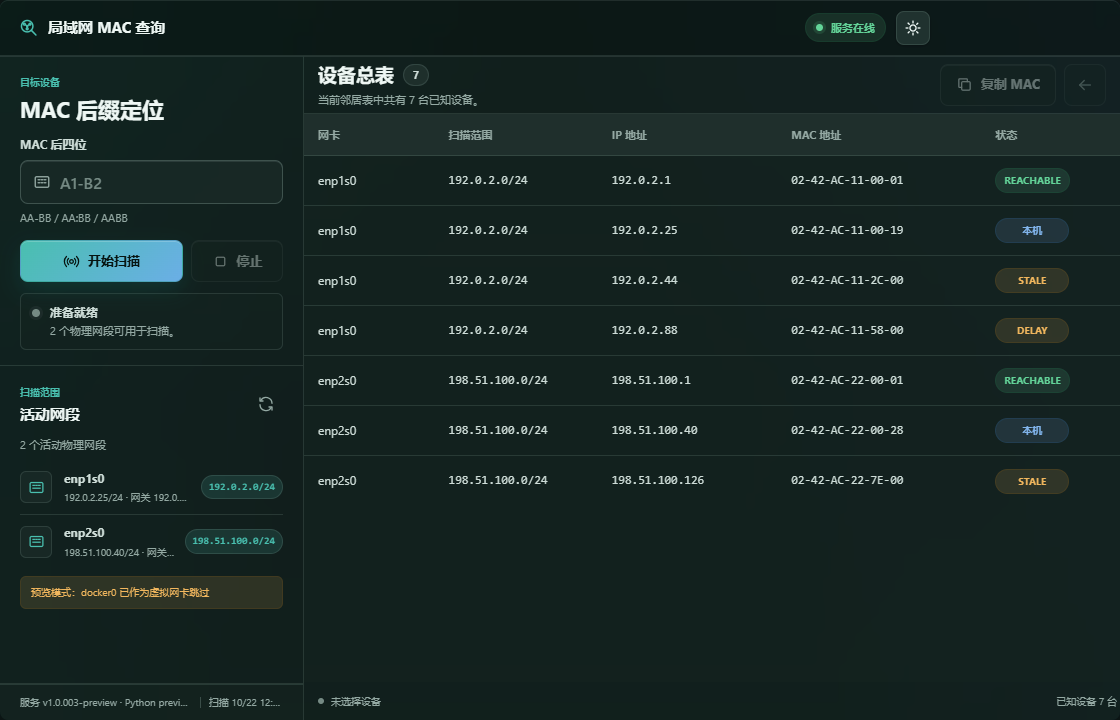
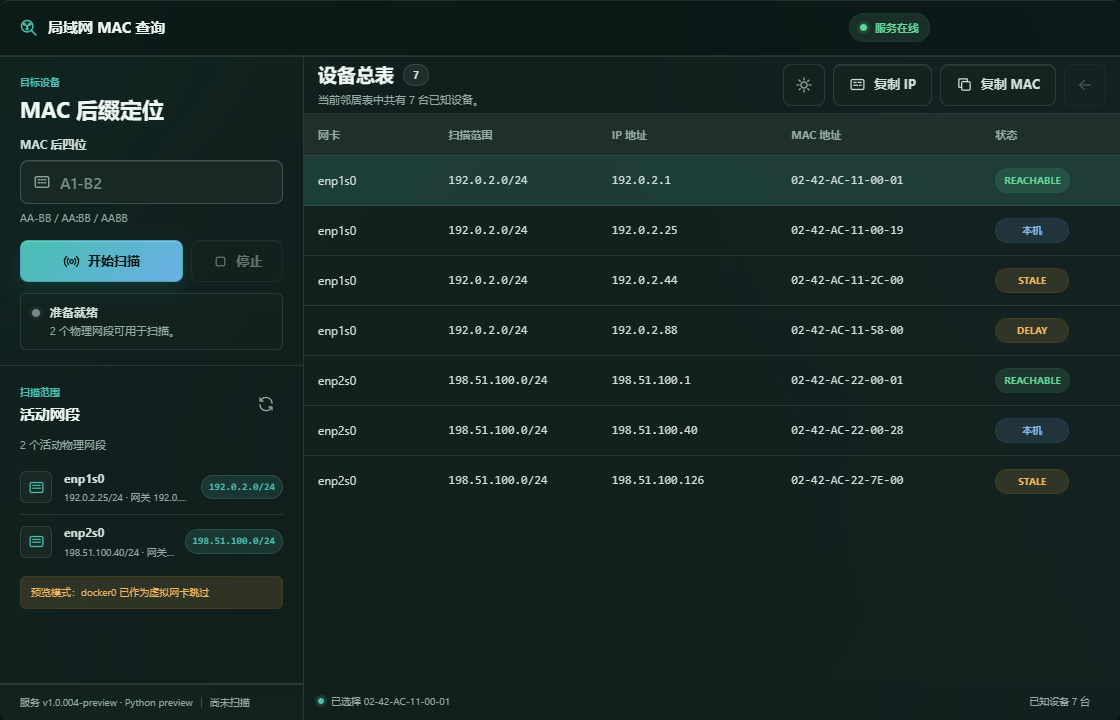
release: v1.0.004

diff --git a/frontend/app.js b/frontend/app.js
@@ -32,6 +32,7 @@ var state = {
   tableSignature: "",
   tableMode: "devices",
   selectedMac: "",
+  selectedIp: "",
   selectedKey: "",
   running: false,
   stopping: false,
@@ -419,6 +420,7 @@ function updateControls() {
   var refreshButton = byId("refreshButton");
   var emptyRefreshButton = byId("emptyRefreshButton");
   var copyButton = byId("copyButton");
+  var copyIpButton = byId("copyIpButton");
   var clearButton = byId("clearButton");
   var inputClearButton = byId("inputClearButton");
   var input = byId("macSuffix");
@@ -430,6 +432,7 @@ function updateControls() {
   input.disabled = state.running;
   inputClearButton.hidden = state.running || !input.value.trim();
   copyButton.disabled = !state.selectedMac;
+  copyIpButton.disabled = !state.selectedIp;
   clearButton.disabled = state.tableMode !== "results" || state.results.length === 0;
   setText(
     "scanButtonText",
@@ -471,9 +474,11 @@ function setProgress(percent, indeterminate, label) {
 
 function resetSelection() {
   state.selectedMac = "";
+  state.selectedIp = "";
   state.selectedKey = "";
   setText("selectionText", "未选择设备");
   byId("copyButton").disabled = true;
+  byId("copyIpButton").disabled = true;
   var summary = document.querySelector(".selected-summary");
   if (summary) {
     summary.classList.remove("has-selection");
@@ -487,6 +492,7 @@ function selectRow(row) {
     item.setAttribute("aria-selected", item === row ? "true" : "false");
   });
   state.selectedMac = row.getAttribute("data-mac") || "";
+  state.selectedIp = row.getAttribute("data-ip") || "";
   state.selectedKey = row.getAttribute("data-key") || "";
   setText("selectionText", state.selectedMac ? "已选择 " + state.selectedMac : "未选择设备");
   var summary = document.querySelector(".selected-summary");
@@ -494,6 +500,7 @@ function selectRow(row) {
     summary.classList.toggle("has-selection", !!state.selectedMac);
   }
   byId("copyButton").disabled = !state.selectedMac;
+  byId("copyIpButton").disabled = !state.selectedIp;
 }
 
 function stateClass(value) {
@@ -539,6 +546,7 @@ function renderTable(items, mode, force) {
     row.setAttribute("role", "row");
     row.setAttribute("aria-selected", "false");
     row.setAttribute("data-mac", result.mac);
+    row.setAttribute("data-ip", result.ip);
     row.setAttribute(
       "data-key",
       result.interface + "|" + result.ip + "|" + result.mac
@@ -961,6 +969,19 @@ async function copySelectedMac() {
   }
 }
 
+async function copySelectedIp() {
+  if (!state.selectedIp) {
+    toast("请先选择一条匹配结果。", true);
+    return;
+  }
+  try {
+    await writeClipboard(state.selectedIp);
+    toast("已复制 " + state.selectedIp, false);
+  } catch (error) {
+    toast("复制失败，请重试。", true);
+  }
+}
+
 async function clearResults() {
   if (state.running) {
     return;
@@ -989,11 +1010,14 @@ async function clearResults() {
 
 function applyTheme(theme) {
   document.documentElement.setAttribute("data-theme", theme);
-  try {
-    localStorage.setItem("lan-mac-finder-theme", theme);
-  } catch (error) {
-    return;
-  }
+  var toggle = byId("themeToggle");
+  var isDark = theme === "dark";
+  toggle.setAttribute("aria-pressed", isDark ? "true" : "false");
+  toggle.setAttribute("aria-label", isDark ? "切换为浅色主题" : "切换为深色主题");
+  toggle.setAttribute(
+    "data-tooltip",
+    isDark ? "切换为浅色主题" : "切换为深色主题"
+  );
 }
 
 function toggleTheme() {
@@ -1097,6 +1121,7 @@ function bindEvents() {
   byId("refreshButton").addEventListener("click", refreshNetworks);
   byId("emptyRefreshButton").addEventListener("click", refreshNetworks);
   byId("copyButton").addEventListener("click", copySelectedMac);
+  byId("copyIpButton").addEventListener("click", copySelectedIp);
   byId("clearButton").addEventListener("click", clearResults);
   byId("inputClearButton").addEventListener("click", function () {
     clearResults().then(function () {
@@ -1117,6 +1142,7 @@ function bindEvents() {
 }
 
 async function boot() {
+  applyTheme(document.documentElement.getAttribute("data-theme") || "light");
   bindEvents();
   bindTooltips();
   updateControls();

diff --git a/frontend/index.html b/frontend/index.html
@@ -12,14 +12,14 @@
     (function () {
       var theme = "light";
       try {
-        theme = localStorage.getItem("lan-mac-finder-theme") || "";
-        if (theme !== "light" && theme !== "dark") {
-          theme = window.matchMedia && window.matchMedia("(prefers-color-scheme: dark)").matches
-            ? "dark"
-            : "light";
-        }
+        theme = window.parent.localStorage.getItem("themeMode") || "";
       } catch (error) {
-        theme = "light";
+        theme = "";
+      }
+      if (theme !== "light" && theme !== "dark") {
+        theme = window.matchMedia && window.matchMedia("(prefers-color-scheme: dark)").matches
+          ? "dark"
+          : "light";
       }
       document.documentElement.setAttribute("data-theme", theme);
     }());
@@ -47,27 +47,6 @@
         <span class="status-dot" aria-hidden="true"></span>
         <span id="backendBadgeText">正在连接服务</span>
       </div>
-      <button
-        id="themeToggle"
-        class="icon-button titlebar-icon-button"
-        type="button"
-        aria-label="切换明暗主题"
-        data-tooltip="切换明暗主题">
-        <svg class="theme-icon theme-icon-light" viewBox="0 0 24 24" aria-hidden="true" focusable="false">
-          <path d="M20.5 14.5A8.5 8.5 0 0 1 9.5 3.5a8.5 8.5 0 1 0 11 11Z"></path>
-        </svg>
-        <svg class="theme-icon theme-icon-dark" viewBox="0 0 24 24" aria-hidden="true" focusable="false">
-          <path d="M12 3v2"></path>
-          <path d="M12 19v2"></path>
-          <path d="M3 12h2"></path>
-          <path d="M19 12h2"></path>
-          <path d="m5.6 5.6 1.4 1.4"></path>
-          <path d="m17 17 1.4 1.4"></path>
-          <path d="m18.4 5.6-1.4 1.4"></path>
-          <path d="M7 17 5.6 18.4"></path>
-          <circle cx="12" cy="12" r="4"></circle>
-        </svg>
-      </button>
     </div>
   </header>
 
@@ -211,6 +190,38 @@
           <p id="resultSummary">正在读取当前邻居表中的已知设备。</p>
         </div>
         <div class="workspace-actions">
+          <button
+            id="themeToggle"
+            class="icon-button workspace-icon-button"
+            type="button"
+            aria-label="切换明暗主题"
+            aria-pressed="false"
+            data-tooltip="切换明暗主题">
+            <svg class="theme-icon theme-icon-light" viewBox="0 0 24 24" aria-hidden="true" focusable="false">
+              <path d="M20.5 14.5A8.5 8.5 0 0 1 9.5 3.5a8.5 8.5 0 1 0 11 11Z"></path>
+            </svg>
+            <svg class="theme-icon theme-icon-dark" viewBox="0 0 24 24" aria-hidden="true" focusable="false">
+              <path d="M12 3v2"></path>
+              <path d="M12 19v2"></path>
+              <path d="M3 12h2"></path>
+              <path d="M19 12h2"></path>
+              <path d="m5.6 5.6 1.4 1.4"></path>
+              <path d="m17 17 1.4 1.4"></path>
+              <path d="m18.4 5.6-1.4 1.4"></path>
+              <path d="M7 17 5.6 18.4"></path>
+              <circle cx="12" cy="12" r="4"></circle>
+            </svg>
+          </button>
+          <button id="copyIpButton" class="secondary-button" type="button" disabled>
+            <svg viewBox="0 0 24 24" aria-hidden="true" focusable="false">
+              <rect x="3" y="5" width="18" height="14" rx="2"></rect>
+              <path d="M7 9h3"></path>
+              <path d="M13 9h4"></path>
+              <path d="M7 13h5"></path>
+              <path d="M15 13h2"></path>
+            </svg>
+            <span>复制 IP</span>
+          </button>
           <button id="copyButton" class="secondary-button" type="button" disabled>
             <svg viewBox="0 0 24 24" aria-hidden="true" focusable="false">
               <rect x="8" y="8" width="12" height="12" rx="2"></rect>

diff --git a/frontend/styles.css b/frontend/styles.css
@@ -1170,7 +1170,7 @@ html[data-theme="dark"] .theme-icon-dark {
   justify-content: space-between;
   gap: 18px;
   min-height: 38px;
-  padding: 0 3px 0 14px;
+  padding: 0 30px 0 14px;
   color: var(--muted);
   font-size: 10px;
 }
@@ -1352,6 +1352,14 @@ html[data-theme="dark"] .theme-icon-dark {
 
   .workspace-header {
     padding: 0 12px;
+  }
+
+  .workspace-actions {
+    gap: 6px;
+  }
+
+  .workspace-actions .secondary-button {
+    padding: 0 10px;
   }
 
   .results-surface {

diff --git a/tools/preview_server.py b/tools/preview_server.py
@@ -254,7 +254,7 @@ class PreviewHandler(SimpleHTTPRequestHandler):
                     "ok": True,
                     "status": "ok",
                     "app": APP_ID,
-                    "version": "1.0.003-preview",
+                    "version": "1.0.004-preview",
                     "python": "preview",
                     "max_hosts": 1022,
                 },
@@ -266,7 +266,7 @@ class PreviewHandler(SimpleHTTPRequestHandler):
                 {
                     "ok": True,
                     "app": APP_ID,
-                    "version": "1.0.003-preview",
+                    "version": "1.0.004-preview",
                     "max_hosts": 1022,
                     "networks": NETWORKS,
                     "warnings": ["预览模式：docker0 已作为虚拟网卡跳过"],
@@ -279,7 +279,7 @@ class PreviewHandler(SimpleHTTPRequestHandler):
                 {
                     "ok": True,
                     "app": APP_ID,
-                    "version": "1.0.003-preview",
+                    "version": "1.0.004-preview",
                     "devices": DEVICES,
                     "warnings": [],
                 },
@@ -291,7 +291,7 @@ class PreviewHandler(SimpleHTTPRequestHandler):
                 {
                     "ok": True,
                     "app": APP_ID,
-                    "version": "1.0.003-preview",
+                    "version": "1.0.004-preview",
                     **STATE.status(),
                 },
             )
@@ -301,7 +301,7 @@ class PreviewHandler(SimpleHTTPRequestHandler):
             return
         if urlsplit(self.path).path in {"", "/"}:
             source = (FRONTEND / "index.html").read_text(encoding="utf-8")
-            raw = source.replace("__APP_VERSION__", "1.0.003-preview").encode("utf-8")
+            raw = source.replace("__APP_VERSION__", "1.0.004-preview").encode("utf-8")
             self.send_response(200)
             self.send_header("Content-Type", "text/html; charset=utf-8")
             self.send_header("Content-Length", str(len(raw)))

diff --git a/backend/tests/test_package_contract.py b/backend/tests/test_package_contract.py
@@ -83,6 +83,21 @@ class PackageContractTests(unittest.TestCase):
         root = ET.fromstring(icon.read_bytes())
         self.assertIn("viewBox", root.attrib)
         self.assertIsNone(re.search(r"<script\b", icon.read_text(encoding="utf-8"), re.I))
+        full_bleed = next(
+            element for element in root if element.tag.rsplit("}", 1)[-1] == "rect"
+        )
+        self.assertIn(full_bleed.attrib.get("x", "0"), {"0"})
+        self.assertIn(full_bleed.attrib.get("y", "0"), {"0"})
+        self.assertEqual(full_bleed.attrib.get("width"), "64")
+        self.assertEqual(full_bleed.attrib.get("height"), "64")
+
+    def test_ui_contract(self) -> None:
+        html = (ROOT / "frontend" / "index.html").read_text(encoding="utf-8")
+        self.assertIn('id="themeToggle"', html)
+        self.assertIn('id="copyIpButton"', html)
+        self.assertIn("window.parent.localStorage.getItem(\"themeMode\")", html)
+        titlebar = html.split('class="titlebar-actions"', 1)[1].split("</header>", 1)[0]
+        self.assertNotIn('id="themeToggle"', titlebar)
 
 
 if __name__ == "__main__":

diff --git a/backend/lan_mac_finder/__init__.py b/backend/lan_mac_finder/__init__.py
@@ -1,3 +1,3 @@
 """LAN MAC Finder backend package."""
 
-__version__ = "1.0.003"
+__version__ = "1.0.004"

diff --git a/README.md b/README.md
@@ -3,7 +3,7 @@
 `lan-mac-finder` is a TOS 7 iframe Deb application for finding devices in the
 NAS's current physical LAN by the last four characters of their MAC address.
 
-Current version: `1.0.003`.
+Current version: `1.0.004`.
 
 ## Features
 
@@ -21,6 +21,9 @@ Current version: `1.0.003`.
 - Show the current neighbor table as a device overview before searching.
 - Include each physical interface's own MAC as a `LOCAL` device.
 - Clear the search field to return immediately to the unfiltered device overview.
+- Copy either the selected device's IP or MAC address.
+- Follow the TOS `themeMode` on startup and provide a directly clickable
+  application theme toggle.
 - Stop an active scan, refresh interfaces, select a result, and copy its MAC.
 - Liquid-glass light/dark themes, custom tooltips, and TOS-safe window layout.
 
@@ -111,7 +114,7 @@ Generated packages and SHA256 files are written to `dist/`.
 For a test NAS:
 
 ```bash
-sudo dpkg -i lan-mac-finder_1.0.003_x86_64.deb
+sudo dpkg -i lan-mac-finder_1.0.004_x86_64.deb
 systemctl status lanmacfinder-system.service
 curl --unix-socket /var/api/lan-mac-finder.sock http://localhost/health
 ```
@@ -150,8 +153,8 @@ Then run tests, build both architectures, commit, tag, and push:
 
 ```powershell
 git add -A
-git commit -m "release: v1.0.003"
+git commit -m "release: v1.0.004"
 git push origin main
-git tag -a v1.0.003 -m "LAN MAC Finder v1.0.003"
-git push origin v1.0.003
+git tag -a v1.0.004 -m "LAN MAC Finder v1.0.004"
+git push origin v1.0.004
 ```

diff --git a/CHANGELOG.md b/CHANGELOG.md
@@ -1,5 +1,17 @@
 # Changelog
 
+## 1.0.004 - 2026-10-22
+
+- Move the theme control out of the TOS host title-bar hit area so clicking it
+  always toggles the application theme.
+- Initialize the application theme from the TOS `themeMode` value so the host
+  window controls and application colors use the same light or dark baseline.
+- Add a Copy IP action for the selected device row.
+- Reserve space for the bottom-right resize handle so device counts no longer
+  overlap it.
+- Make the application icon fill its SVG viewBox so navigation and App Center
+  render it at the same visual size as system icons.
+
 ## 1.0.003 - 2026-10-22
 
 - Reserve a wider host-control safe area in the title bar so TOS minimize,
